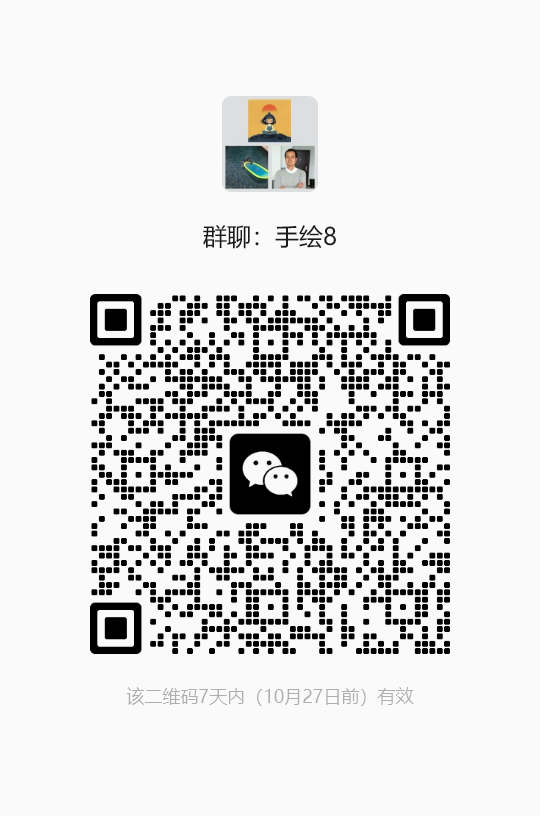
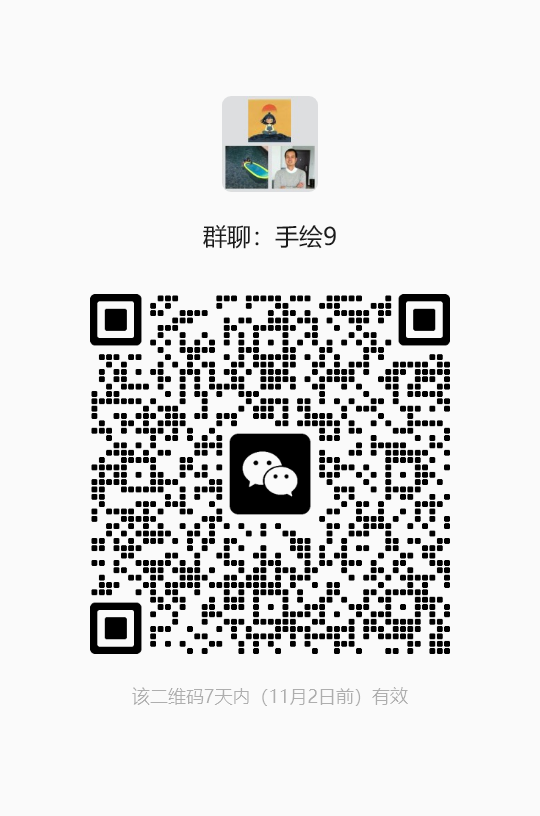
feat(gallery): update wechat group qr to group 9

Changed region(s): [[0.1481, 0.337, 0.8296, 0.8578], [0.5926, 0.2757, 0.6222, 0.3064], [0.237, 0.8272, 0.2667, 0.8578]]

diff --git a/gallery/assets.html b/gallery/assets.html
@@ -788,7 +788,7 @@ dialog#wechat-modal p { margin: 0 0 16px; font-size: 13.5px; color: #665f57; }
     <div class="qr-card">
       <span class="qr-tag" data-i18n="wechatGroupLabel">① 优先加入群聊</span>
       <img src="../../../images/wechat_group.png" alt="微信交流群二维码">
-      <span class="qr-tip">群聊：手绘4</span>
+      <span class="qr-tip">群聊：手绘9</span>
     </div>
     <div class="qr-card">
       <span class="qr-tag" data-i18n="wechatPersonalLabel">② 个人微信备用</span>
